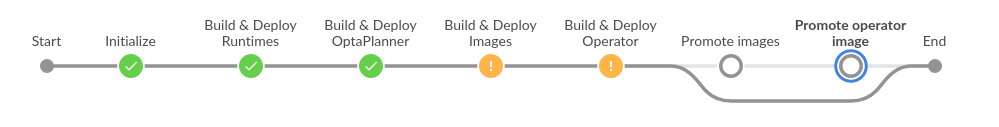
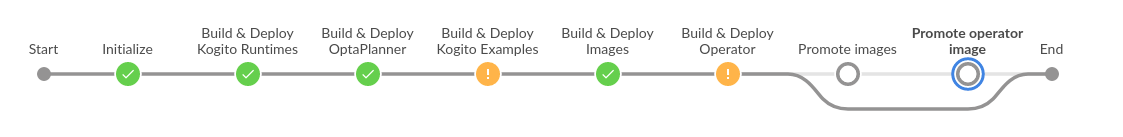
[KOGITO-3471] [KOGITO-3473] Extract kogito-examples & staging repo from runtimes (#67)
* KOGITO-3471 KOGITO-3473 Examples & staging repo

* updated documentation part with examples

Changed region(s): [[0.031, 0.1654, 0.962, 0.8268], [0.0931, 0.1417, 0.8068, 0.4016], [0.0, 0.2835, 0.0621, 0.4016]]

diff --git a/docs/nightly_and_release.md b/docs/nightly_and_release.md
@@ -50,13 +50,15 @@
     * [Nightly pipeline Proposal](#nightly-pipeline-proposal)
     * [Release pipeline Proposal](#release-pipeline-proposal)
 
-In order to perform, Nightly and Release pipelines need to call some deploy and promote jobs for runtimes, images and operator.  
+In order to perform, Nightly and Release pipelines need to call some deploy and promote jobs for runtimes, examples, images and operator.  
 Those jobs should be present at the same level as the nightly and/or release job, so they can be found when called.
 
 Here is the list of jobs and link to Jenkinsfiles:
 
 * [kogito-runtimes-deploy](https://github.com/kiegroup/kogito-runtimes/blob/master/Jenkinsfile.deploy)
 * [kogito-runtimes-promote](https://github.com/kiegroup/kogito-runtimes/blob/master/Jenkinsfile.promote)
+* [kogito-examples-deploy](https://github.com/kiegroup/kogito-examples/blob/master/Jenkinsfile.deploy)
+* [kogito-examples-promote](https://github.com/kiegroup/kogito-examples/blob/master/Jenkinsfile.promote)
 * [kogito-images-deploy](https://github.com/kiegroup/kogito-images/blob/master/Jenkinsfile.deploy)
 * [kogito-images-promote](https://github.com/kiegroup/kogito-images/blob/master/Jenkinsfile.promote)
 * [kogito-operator-deploy](https://github.com/kiegroup/kogito-cloud-operator/blob/master/Jenkinsfile.deploy)
@@ -66,7 +68,7 @@ Here is the list of jobs and link to Jenkinsfiles:
 
 ### Nightly pipeline Architecture
 
-The Nightly Pipeline is composed of many steps, calling different other jobs to perform the build&test of runtimes/images/operator as well as the deployment of jar artifacts and nightly container images.
+The Nightly Pipeline is composed of many steps, calling different other jobs to perform the build&test of runtimes/examples/images/operator as well as the deployment of jar artifacts and nightly container images.
 
 **NOTE:** The Nightly Pipeline is a multibranch pipeline job and runs on `master` and each active release branch (for example 0.15.x).
 
@@ -75,12 +77,12 @@ The Nightly Pipeline is composed of many steps, calling different other jobs to 
 Steps could be separated into 2 parts:
 
 * **Build & Deploy**  
-  Composed of calls to `*-deploy` jobs, is reponsible to runtimes, images and operator are ok.  
+  Composed of calls to `*-deploy` jobs, is reponsible to runtimes, examples, images and operator are ok.  
   Note that if any problem happens in a `deploy` job, then other deploy jobs are still run (they will take the previous stable artifacts/images) to run.
 * **Promote**  
   Composed of calls to `*-promote` jobs, is responsible to deploy snapshots artifacts/nightly images to repositories/registries.
 
-Note that for a particular part of the project (runtimes, images or operator), if the `Build & Deploy` failed, then the `Promote` part is skipped.
+Note that for a particular part of the project (runtimes, examples, images or operator), if the `Build & Deploy` failed, then the `Promote` part is skipped.
 
 ### Activate/Deactivate release branch
 
@@ -141,7 +143,7 @@ In order to test the full Nightly Pipeline, and in order to avoid any problem, y
 
 #### Create specific Maven repository for nightly testing
 
-For deploying runtimes artifacts, and to avoid any conflict with main repository on snapshot artifacts, you will need to provide a nexus repository to deploy the artifacts.
+For deploying runtimes and examples artifacts, and to avoid any conflict with main repository on snapshot artifacts, you will need to provide a nexus repository to deploy the artifacts.
 
 If don't have one already, you can create one with the [nexus-operator](https://github.com/m88i/nexus-operator).
 
@@ -159,6 +161,8 @@ You will need to create single pipeline jobs and let them run once to update the
 
 * [kogito-runtimes-deploy](https://github.com/kiegroup/kogito-runtimes/blob/master/Jenkinsfile.deploy)
 * [kogito-runtimes-promote](https://github.com/kiegroup/kogito-runtimes/blob/master/Jenkinsfile.promote)
+* [kogito-examples-deploy](https://github.com/kiegroup/kogito-examples/blob/master/Jenkinsfile.deploy)
+* [kogito-examples-promote](https://github.com/kiegroup/kogito-examples/blob/master/Jenkinsfile.promote)
 * [kogito-images-deploy](https://github.com/kiegroup/kogito-images/blob/master/Jenkinsfile.deploy)
 * [kogito-images-promote](https://github.com/kiegroup/kogito-images/blob/master/Jenkinsfile.promote)
 * [kogito-operator-deploy](https://github.com/kiegroup/kogito-cloud-operator/blob/master/Jenkinsfile.deploy)
@@ -185,7 +189,7 @@ In Jenkins, you should set those credentials and set the correct values in env:
 
 ### Architecture of the Release pipeline
 
-The Release Pipeline is composed of many steps, calling different other jobs to set the correct version, perform the build&test of runtimes/images/operator and then promote released artifacts and container images as production ready.
+The Release Pipeline is composed of many steps, calling different other jobs to set the correct version, perform the build&test of runtimes/examples/images/operator and then promote released artifacts and container images as production ready.
 
 ![Flow](./images/release-flow.png)
 
@@ -231,7 +235,7 @@ In order to start, here are the minimal parameters to the Release Pipeline:
 The Release pipeline can be tweaked with some other parameters if needed.
 
 One option is the possibility to skip some stages, depending on which part you want to release.  
-**NOTE: If you decide to skip the runtimes part, please be careful on `ARTIFACTS_REPOSITORY`, `EXAMPLES_URI` and `EXAMPLES_REF` parameters**
+**NOTE: If you decide to skip the runtimes/examples part, please be careful on `ARTIFACTS_REPOSITORY`, `EXAMPLES_URI` and `EXAMPLES_REF` parameters**
 
 See [Release Jenkinsfile](../Jenkinsfile.release) for the full list on parameters.
 
@@ -242,10 +246,10 @@ See [Release Jenkinsfile](../Jenkinsfile.release) for the full list on parameter
 One other specificity of the Release Pipeline are the manual interventions.  
 They are currently 3 of them:
 
-* **Get staging repository** (happens in kogito-runtimes-deploy)  
+* **Get staging repository** (happens in main release pipeline)  
   When asked, Staging repository can be retrieved from [JBoss Nexus repository](https://repository.jboss.org/nexus/). For that, the user needs to have specific rights or ask someone who has those rights.  
   Once retrieved, you can put the url to staging repository into the input asking for it on Jenkins.
-* **Release staging repository to Maven Central** (happens in kogito-runtimes-deploy)  
+* **Release staging repository to Maven Central** (happens in main release pipeline)
   Same as getting staging repository, you need the rights to release the artifacts from the staging repository in [JBoss Nexus repository](https://repository.jboss.org/nexus/) to Maven Central, or ask someone with rights to do it.  
   Once artifacts are released, just confirm it is released on Jenkins.
 * **Check kogito-apps artifacts are set to correct url** (happens in kogito-images-promote)
@@ -349,7 +353,7 @@ In order to test the full Release Pipeline, and in order to avoid any problem, y
 
 #### Create specific Maven repository for release testing
 
-For deploying runtimes artifacts, and to avoid any conflict by creating a staging repository inadvertly, you will need to provide a nexus repository to deploy the artifacts.
+For deploying runtimes/examples artifacts, and to avoid any conflict by creating a staging repository inadvertly, you will need to provide a nexus repository to deploy the artifacts.
 
 If don't have one already, you can create one with the [nexus-operator](https://github.com/m88i/nexus-operator).
 
@@ -371,6 +375,8 @@ You will need to create single pipeline jobs and let them run once to update the
 * [create-release-branches](../Jenkinsfile.create-release-branches)
 * [kogito-runtimes-deploy](https://github.com/kiegroup/kogito-runtimes/blob/master/Jenkinsfile.deploy)
 * [kogito-runtimes-promote](https://github.com/kiegroup/kogito-runtimes/blob/master/Jenkinsfile.promote)
+* [kogito-examples-deploy](https://github.com/kiegroup/kogito-examples/blob/master/Jenkinsfile.deploy)
+* [kogito-examples-promote](https://github.com/kiegroup/kogito-examples/blob/master/Jenkinsfile.promote)
 * [kogito-images-deploy](https://github.com/kiegroup/kogito-images/blob/master/Jenkinsfile.deploy)
 * [kogito-images-promote](https://github.com/kiegroup/kogito-images/blob/master/Jenkinsfile.promote)
 * [kogito-operator-deploy](https://github.com/kiegroup/kogito-cloud-operator/blob/master/Jenkinsfile.deploy)
